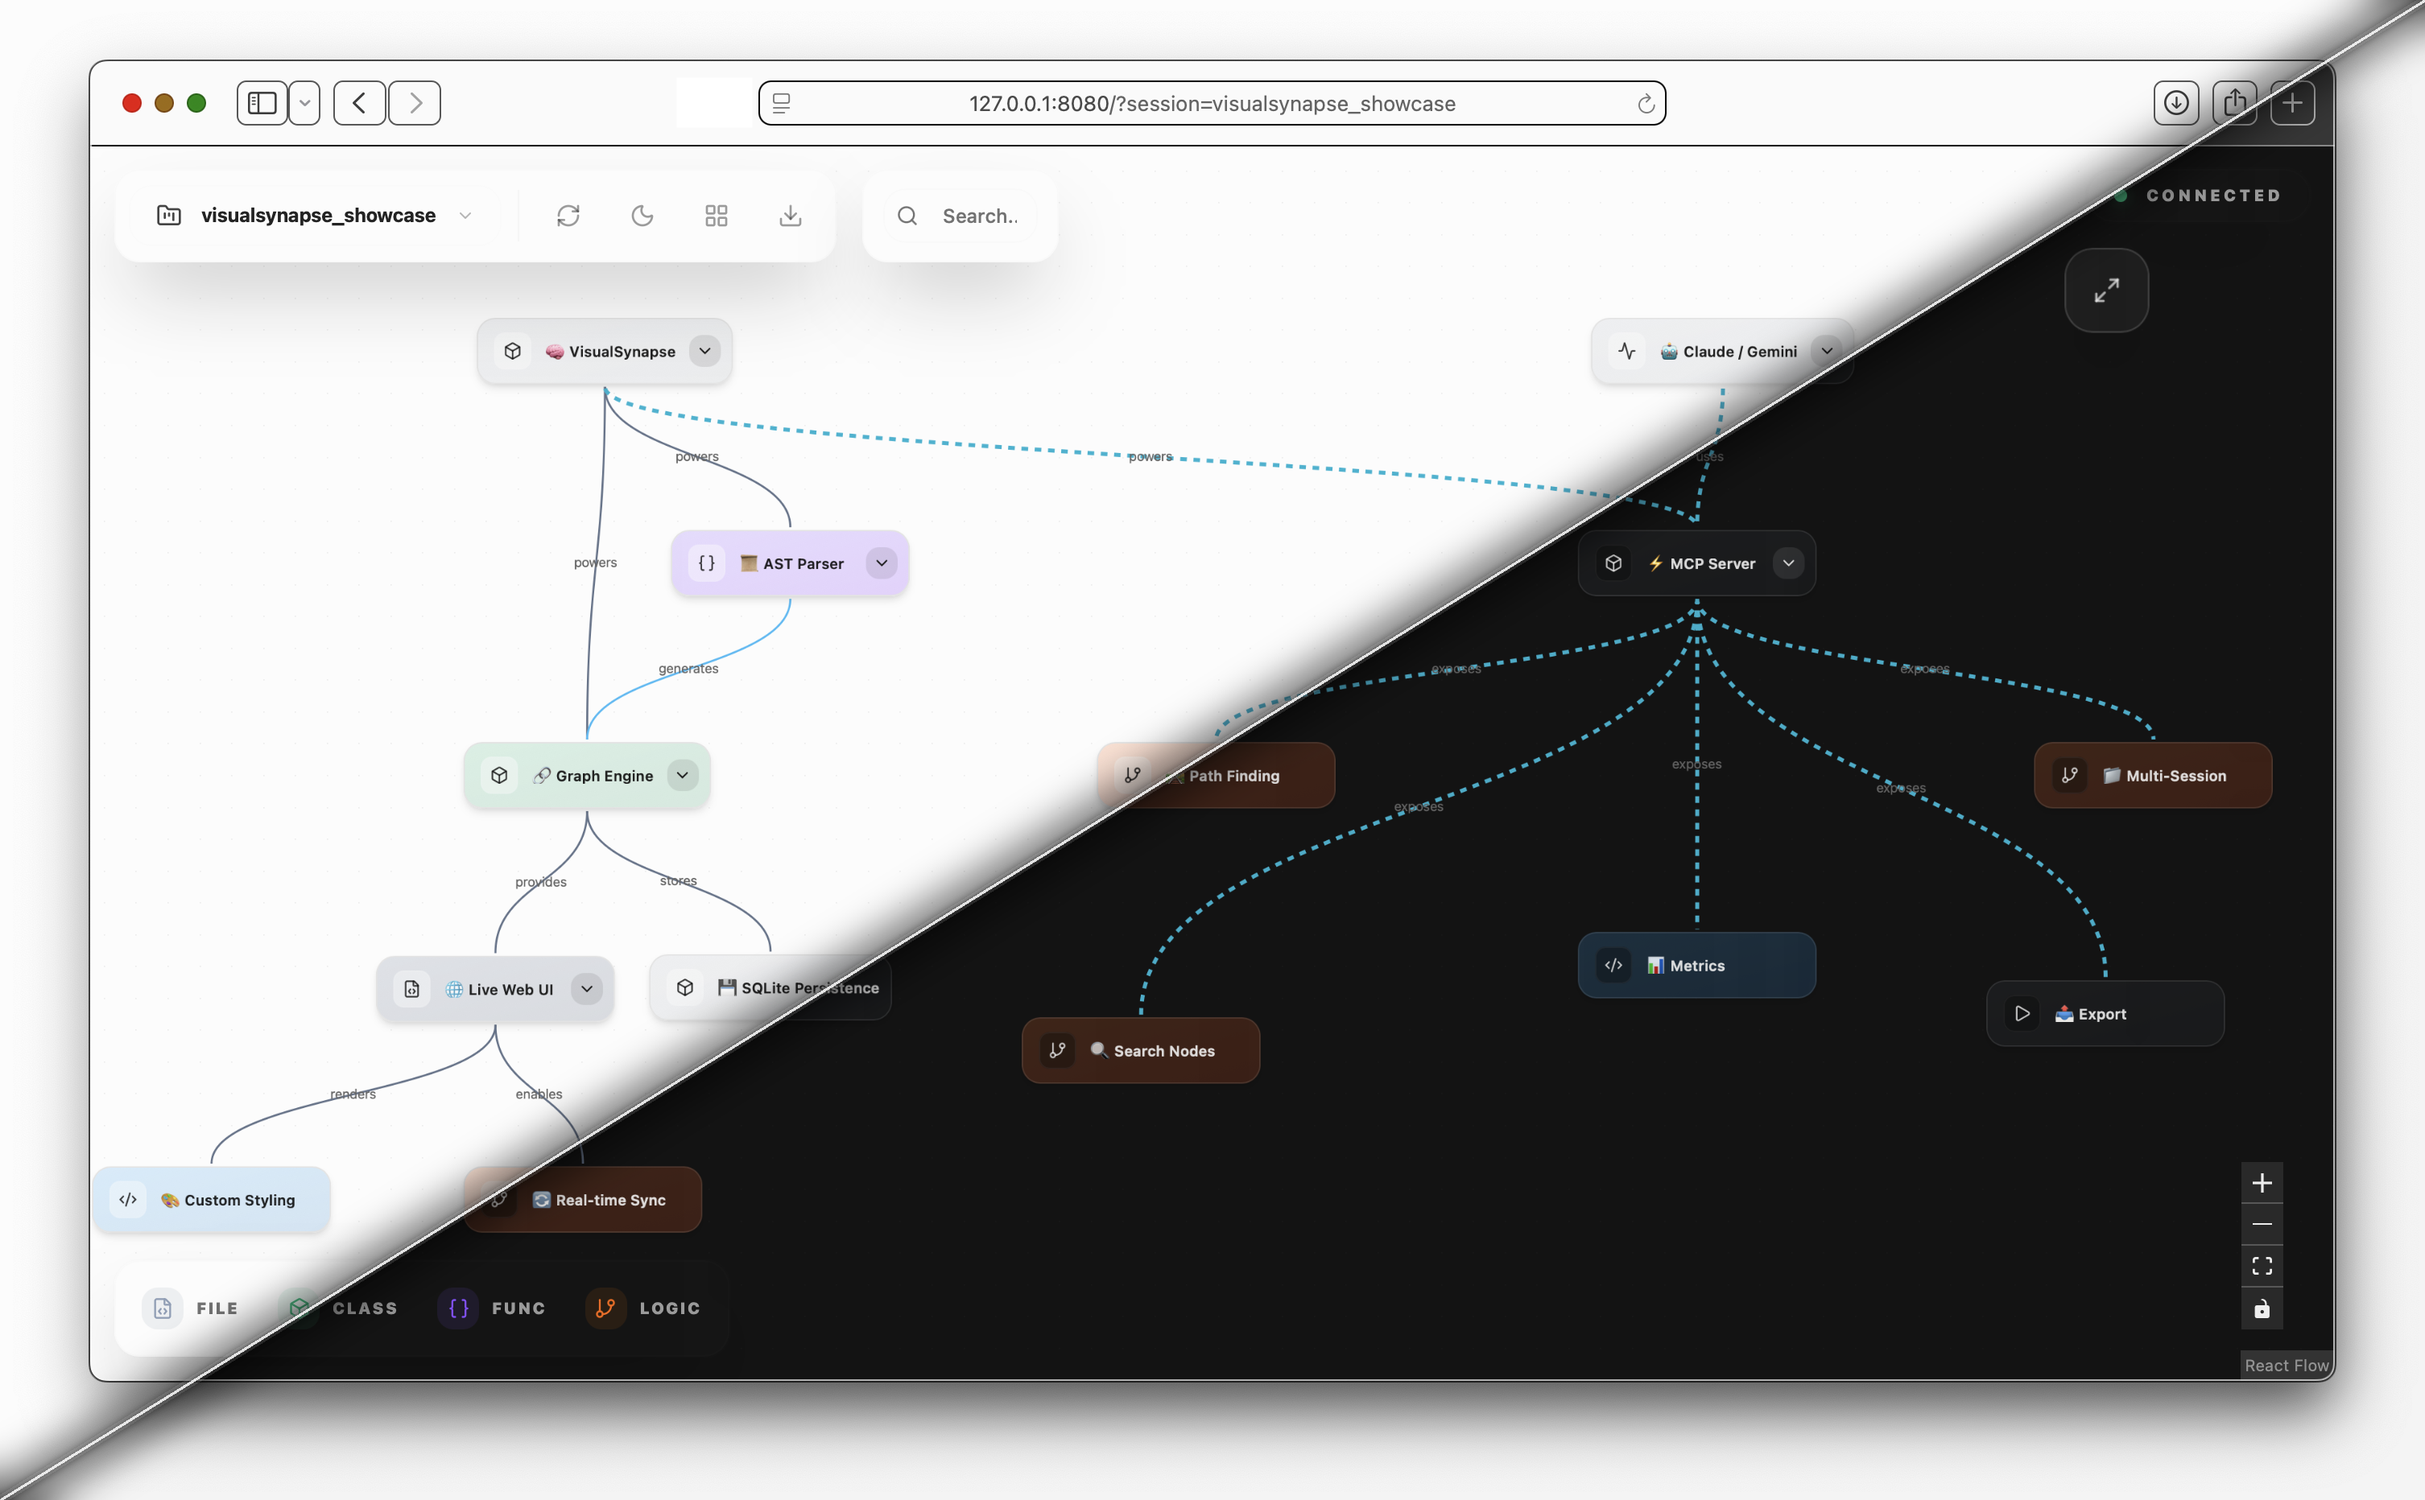
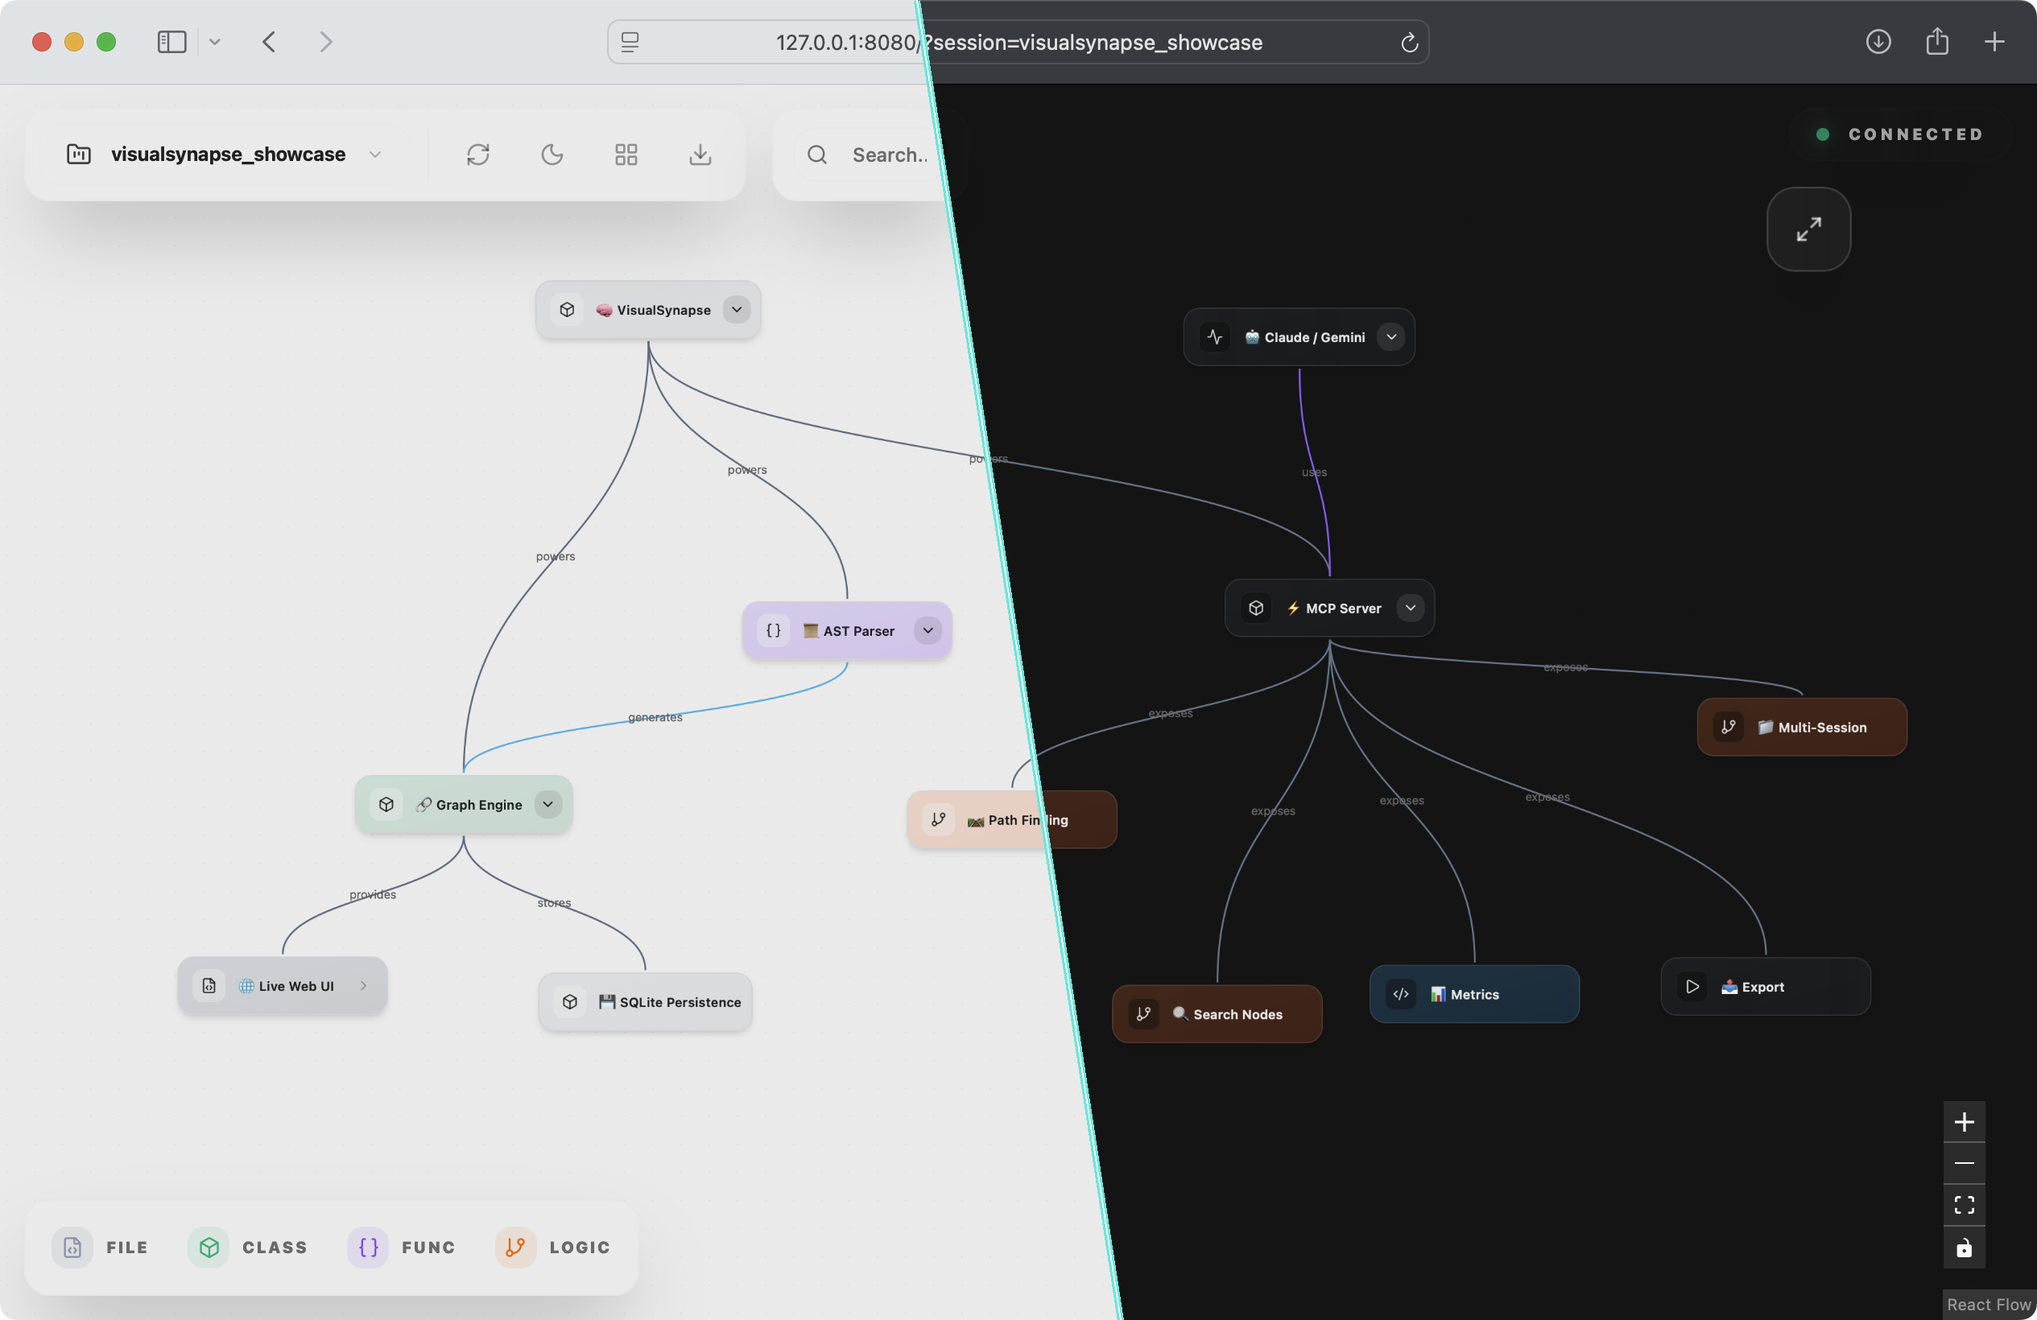
Appearance Enhancement

diff --git a/README.md b/README.md
@@ -1,11 +1,50 @@
-# VisualSynapse
+<div align="center">
+  <!-- <img src="assets/logo.jpeg" alt="VisualSynapse Hero" width="100%" /> -->
 
-<p align="center">
-  <img src="assets/showcase.png" alt="VisualSynapse Showcase" width="100%" style="border-radius: 10px; box-shadow: 0 10px 30px rgba(0,0,0,0.2);">
-</p>
+  # VisualSynapse
+  
+  **Your Codebase, Re-Imagined as a Living Organism.**
+  
+  [![Python](https://img.shields.io/badge/Python-3.10+-blue?style=for-the-badge&logo=python&logoColor=white)](https://python.org)
+  [![MCP](https://img.shields.io/badge/MCP-Enabled-green?style=for-the-badge)](https://modelcontextprotocol.io)
+  [![License](https://img.shields.io/badge/License-MIT-purple?style=for-the-badge)](LICENSE)
+</div>
 
-
+---
 A code visualization tool that turns source code, files, and entire folder structures into interactive graphs. With AI assistance, you can map anything from a single function to a full project hierarchy.
+
+## The Problem: When Coding with AI, You Can't See the Logic
+
+AI writes code at the speed of thought, but it lacks **sight**. When you generate functions, refactor modules, or debug errors in a chat window, you are working in fragmented, linear text.
+
+**You lose the Mental Map.**
+
+*   **Context Blindness**: You paste `main.py` but forget `utils.py`. The AI hallucinates a connection that doesn't exist because it can't "see" the import graph.
+*   **Structural Decay**: As you iterate with LLMs, spaghetti code forms not because the logic is bad, but because the *architecture* is invisible.
+*   **The Review Gap**: Reviewing 500 lines of AI-generated code is exhausting. You skim, you miss bugs, and you merge technical debt.
+
+**It's time to stop reading code and start seeing it.**
+
+<div align="center">
+  <img src="assets/showcase.png" alt="VisualSynapse UI Split View" width="100%" />
+</div>
+
+## The Solution: VisualSynapse
+
+VisualSynapse is an **MCP (Model Context Protocol) Server** that transforms your static codebase into a dynamic, queryable, and interactive knowledge graph. 
+
+It doesn't just "diagram" your code; it creates a persistent **Session**—a mental model of your workspace that you can explore, manipulate, and expand.
+
+### Key Usasge
+
+*   **⚡ Live Code Mapping**: Automatically parses Python, JS, and TS files to build a hierarchical graph of Files > Classes > Functions > Logic.
+*   **🕸 Dead Code Detection**: Instantly spot "orphan nodes"—functions or classes with zero incoming edges.
+*   **🔎 Semantic Trace**: Use the `find_path` tool to discover the shortest route between two disparate parts of your system.
+*   **💾 Persistent Sessions**: Your graph isn't ephemeral. Create a session (`planning_auth_flow`), populate it, and come back to it days later.
+*   **🤖 LLM-Ready**: Designed specifically for AI Agents. Tools like `add_node`, `search_nodes`, and `analyze_session` give LLMs "eyes" on the architecture.
+
+> **Note:** Some of the Key Usage is far from current reality. Advanced features like Live Mapping and Semantic Trace are experimental/roadmap items. We are actively building towards this vision and welcome contributions.
+
 
 ## Installation
 
@@ -52,15 +91,6 @@ Add to your MCP config:
   }
 }
 ```
-
-## What it does
-
-When you're debugging or trying to understand unfamiliar code, you can ask your AI assistant to visualize it. The tool parses the code, extracts the structure (classes, functions, control flow), and displays it as an expandable graph in a web UI.
-
-This is useful when:
-- You want to see how functions relate to each other
-- You need to trace logic flow through conditionals and loops
-- You're exploring a new codebase and want a visual map
 
 
 
@@ -111,7 +141,9 @@ If you find a bug, open an issue with:
 - **Structural Analysis**: Built-in BFS (Breadth-First Search) algorithms to detect orphan nodes, calculate graph components, and validate edge integrity on every save.
 - **Pathfinding**: Optimized shortest-path algorithms to trace execution flow between any two code entities.
 
+---
 
-## License
-
-MIT
+<div align="center">
+  <b>Built by VisualSynapse</b><br>
+  <i>Architecting bridges between logic and culture.</i>
+</div>
